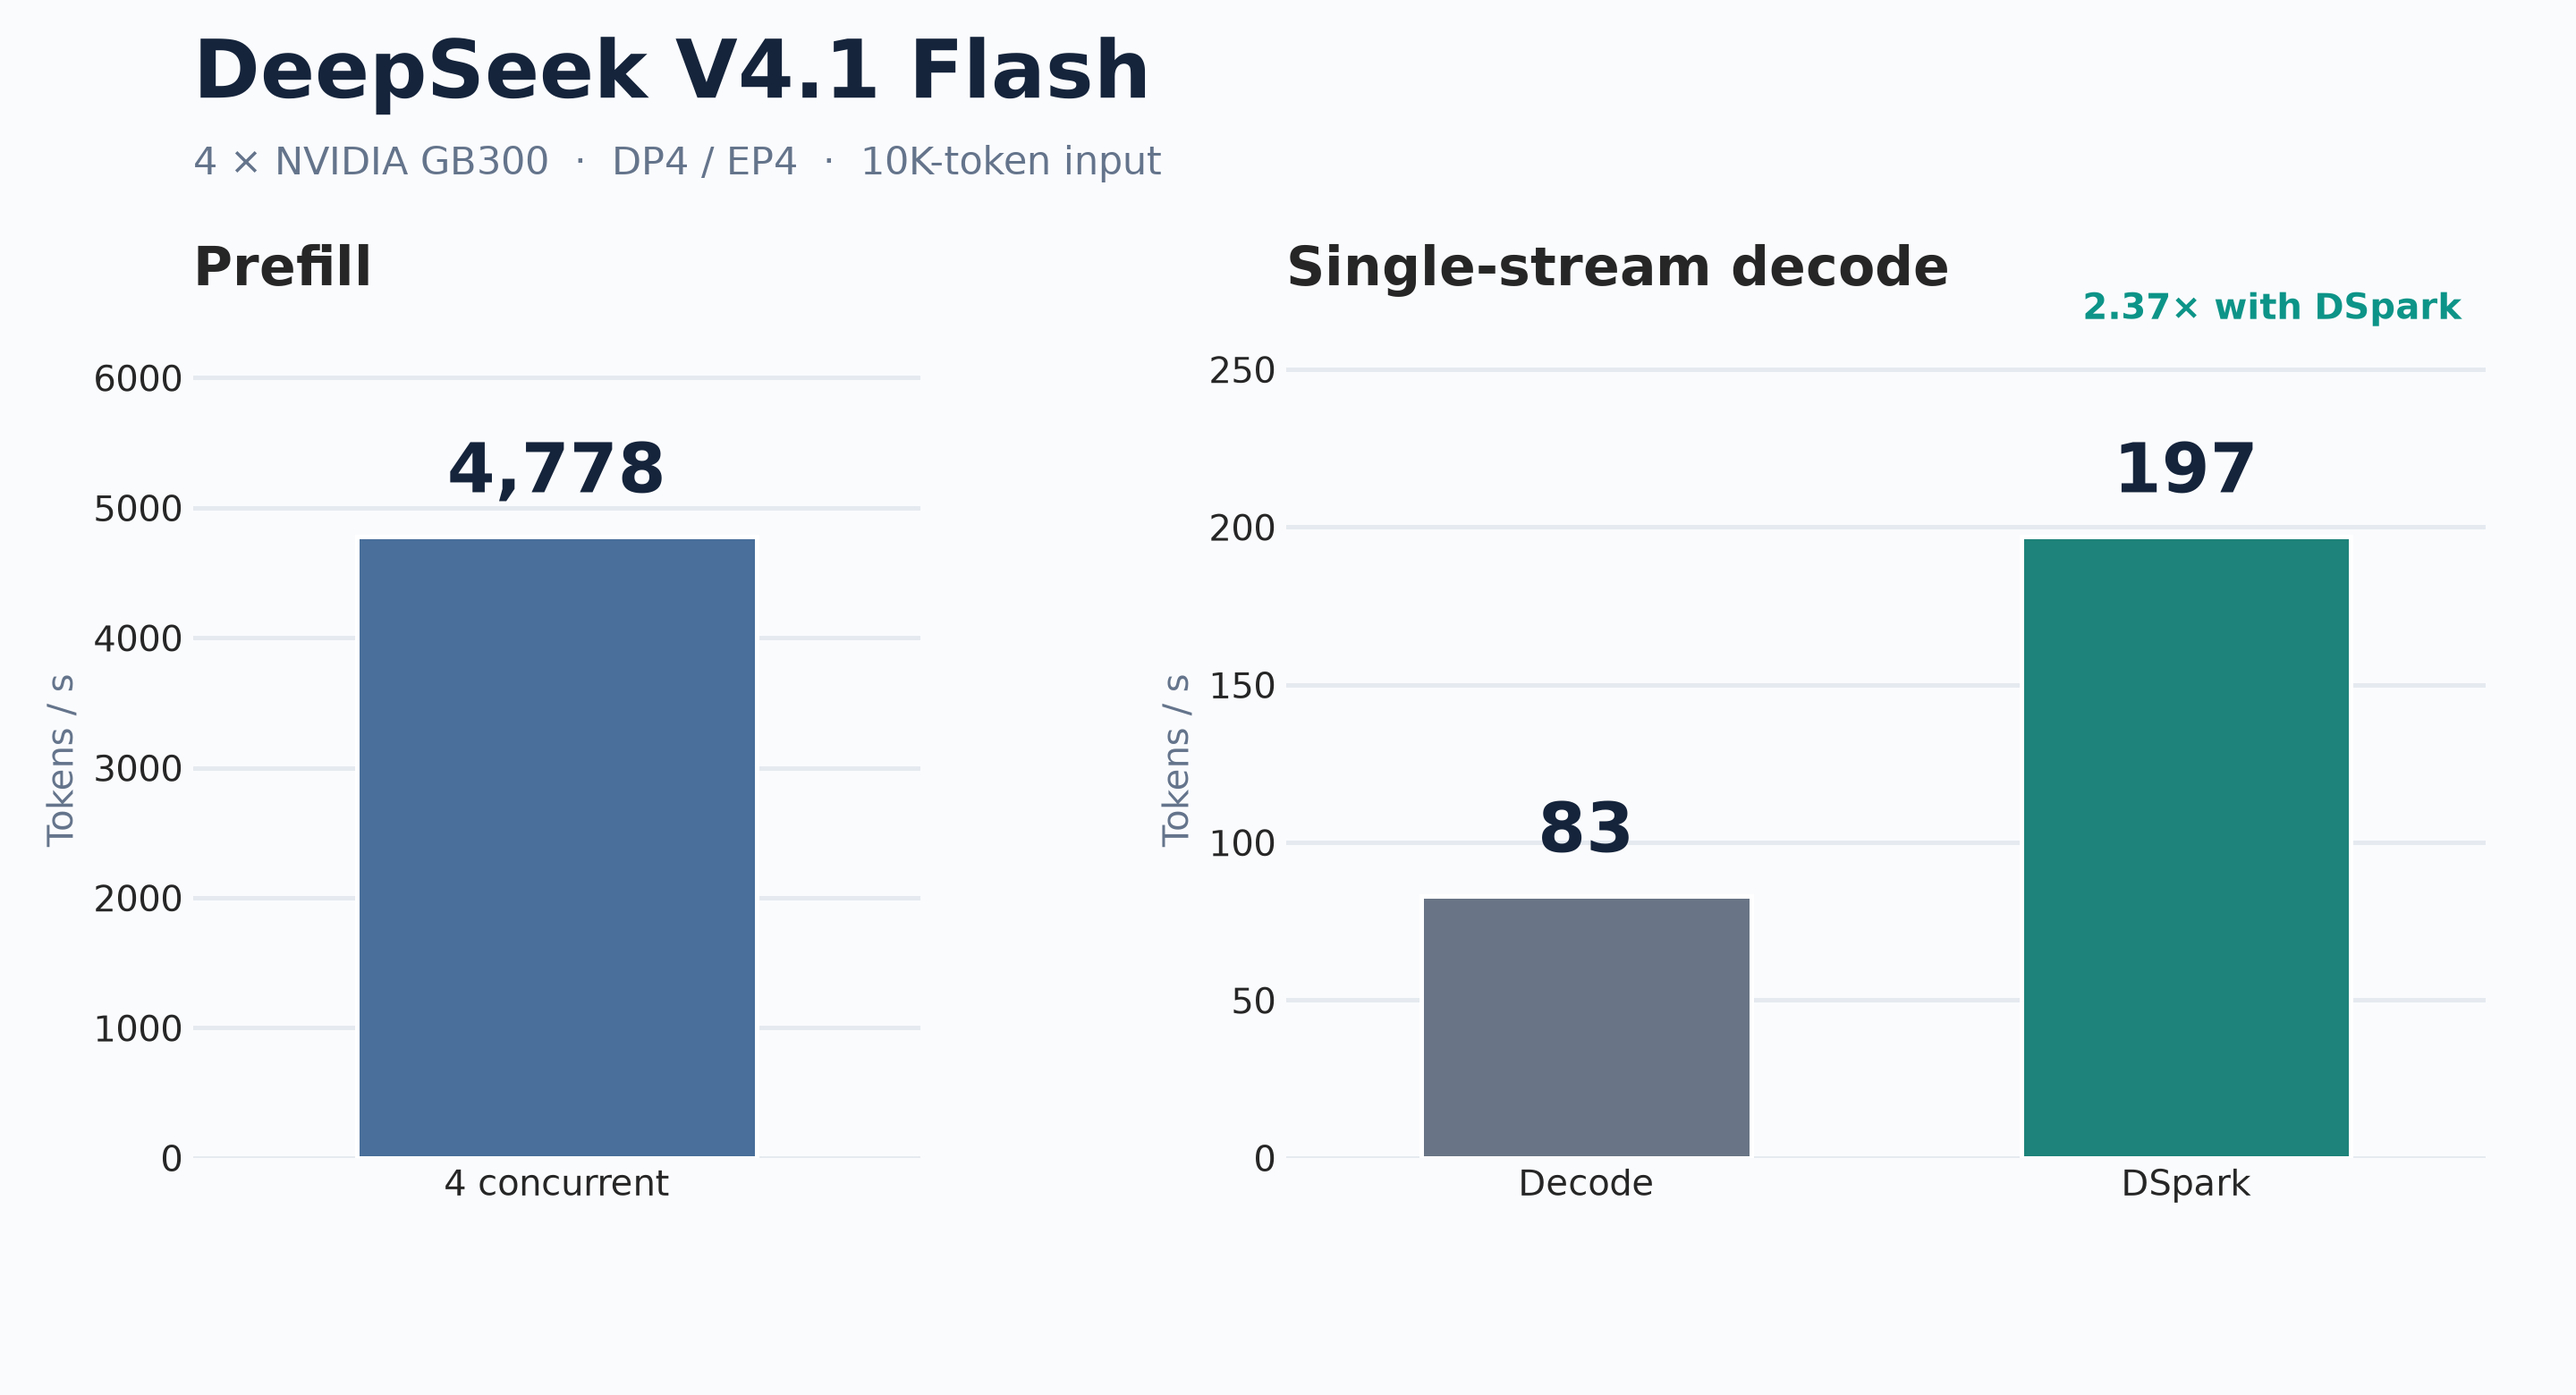
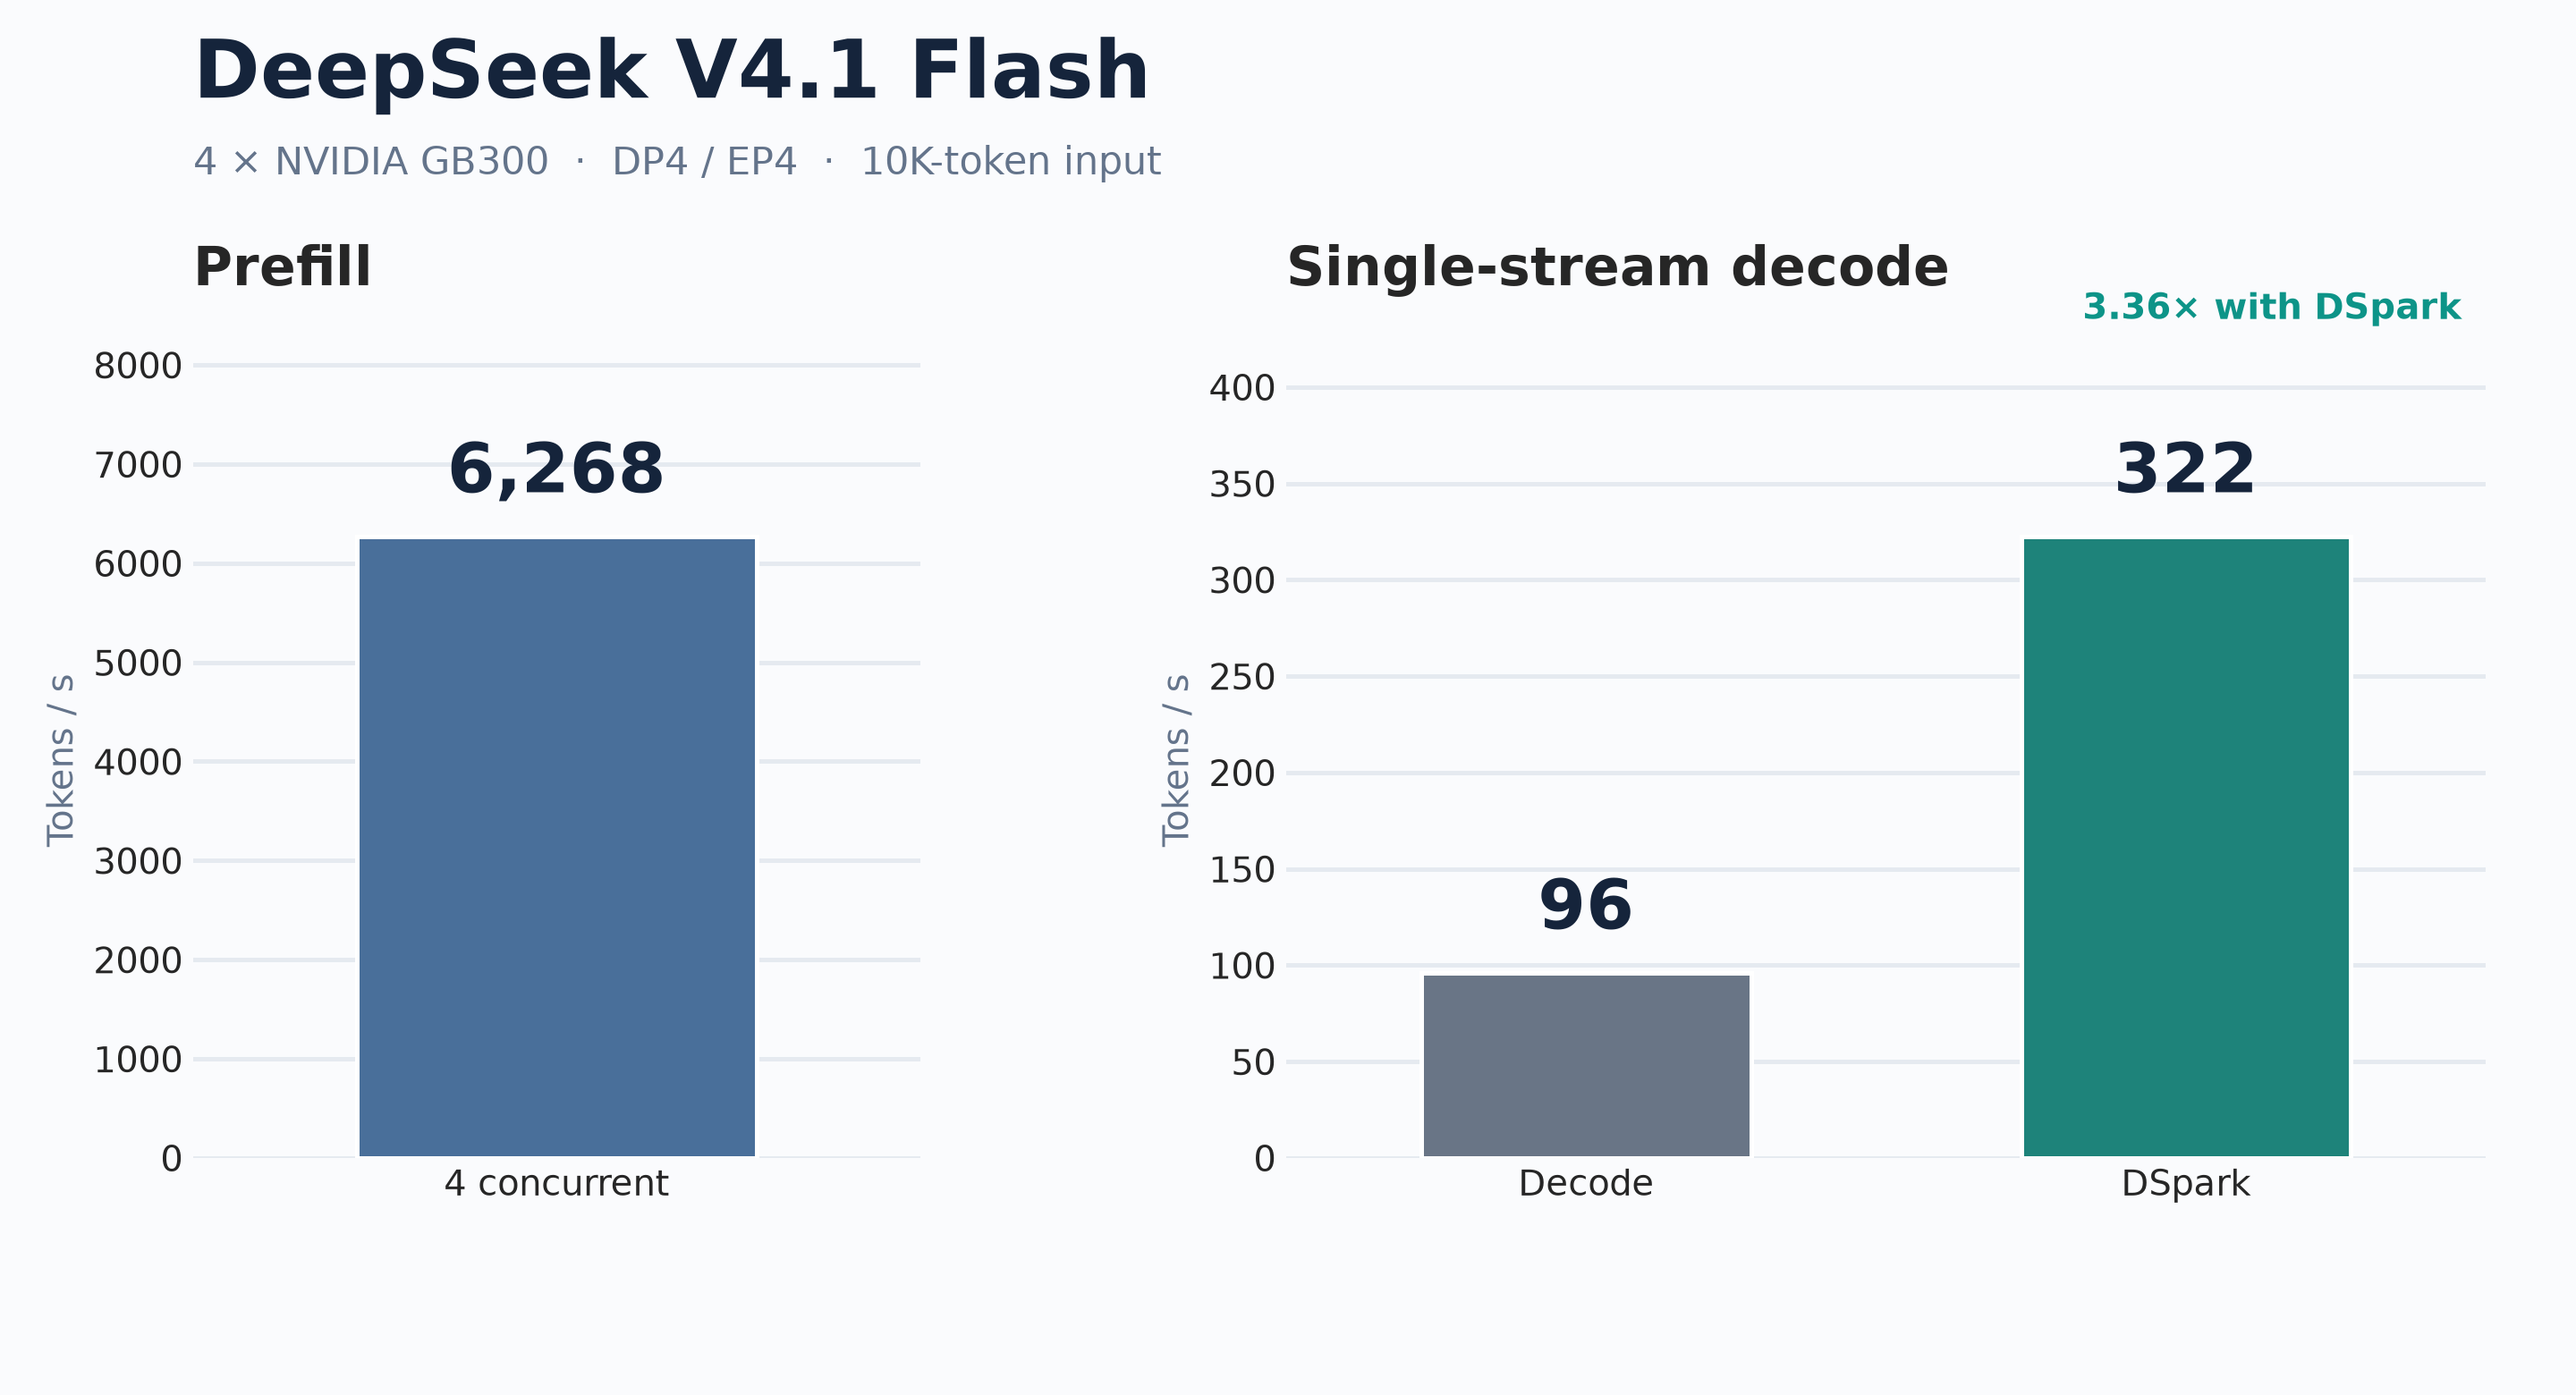
docs: dsv41 performance figure re-measured at 11 launches per layer
Same scripts, prompts and server flags as the 2026-09-10 figure, now on
the manifest at 34343fa (tray05): prefill 4x10k 6,268 tok/s (was 4,778),
single-stream decode 96 tok/s at 10.4 ms TPOT (was 83 / 12.05 ms, and
flat across requests where the earlier run had 21-28 ms outliers), DSpark
322 tok/s (was 197). The previous numbers stay in data.json. Raw
timings: ~/bench_results/2026-09-10-dsv41-eleven-launch-perf.

Claude-Session: https://claude.ai/code/session_01Mv5MDimRjS98Qu3BpDPQkk

diff --git a/docs/figures/dsv41-performance/README.md b/docs/figures/dsv41-performance/README.md
@@ -4,8 +4,12 @@
 Regenerate both with `python plot.py` (Python, seaborn and matplotlib).
 
 Configuration: 4 NVIDIA GB300 GPUs, one process, DP4 attention / EP4 MoE,
-BF16 O-A, original checkpoint, complete Engram tables in 512 MiB transparent
-huge pages, chunk size 128. Measured on 2026-09-10 through the HTTP completions API.
+MXFP8 O-A from the GEMM epilogue, Mega mHC emitting MXFP8, fused
+norm+quant / norm+RoPE (11 launches per reuse-mode layer, kern 34343fa),
+original checkpoint, complete Engram tables in 512 MiB transparent
+huge pages, chunk size 128. Measured on 2026-09-10 (tray05) through the HTTP completions API; the
+earlier paged-attention / BF16 O-A numbers are kept in `data.json` under
+`previous_2026-09-10_paged_bf16_oa`.
 
 - Prefill: four simultaneous requests with distinct prefixes, exactly 10,000
   input tokens and one output token each. Aggregate throughput is 40,000 /
@@ -17,7 +21,7 @@ huge pages, chunk size 128. Measured on 2026-09-10 through the HTTP completions 
   delivery, not constant inter-token latency. Plain uses rows=1; DSpark rows=6.
 - Bars show the maximum observed throughput per metric. All trial values are
   in `data.json`: three prefill batches, three plain-decode requests, and six
-  DSpark requests across two runs. The slower trials are retained in the data.
+  DSpark requests across two passes over the same three prompts. The slower trials are retained in the data.
   Decode measurements were made in separate runs of the same THP runtime build.
   Prefix reuse was zero in the measured requests. Performance does not establish
   identical text, numerical equivalence or stable official-reference acceptance.
